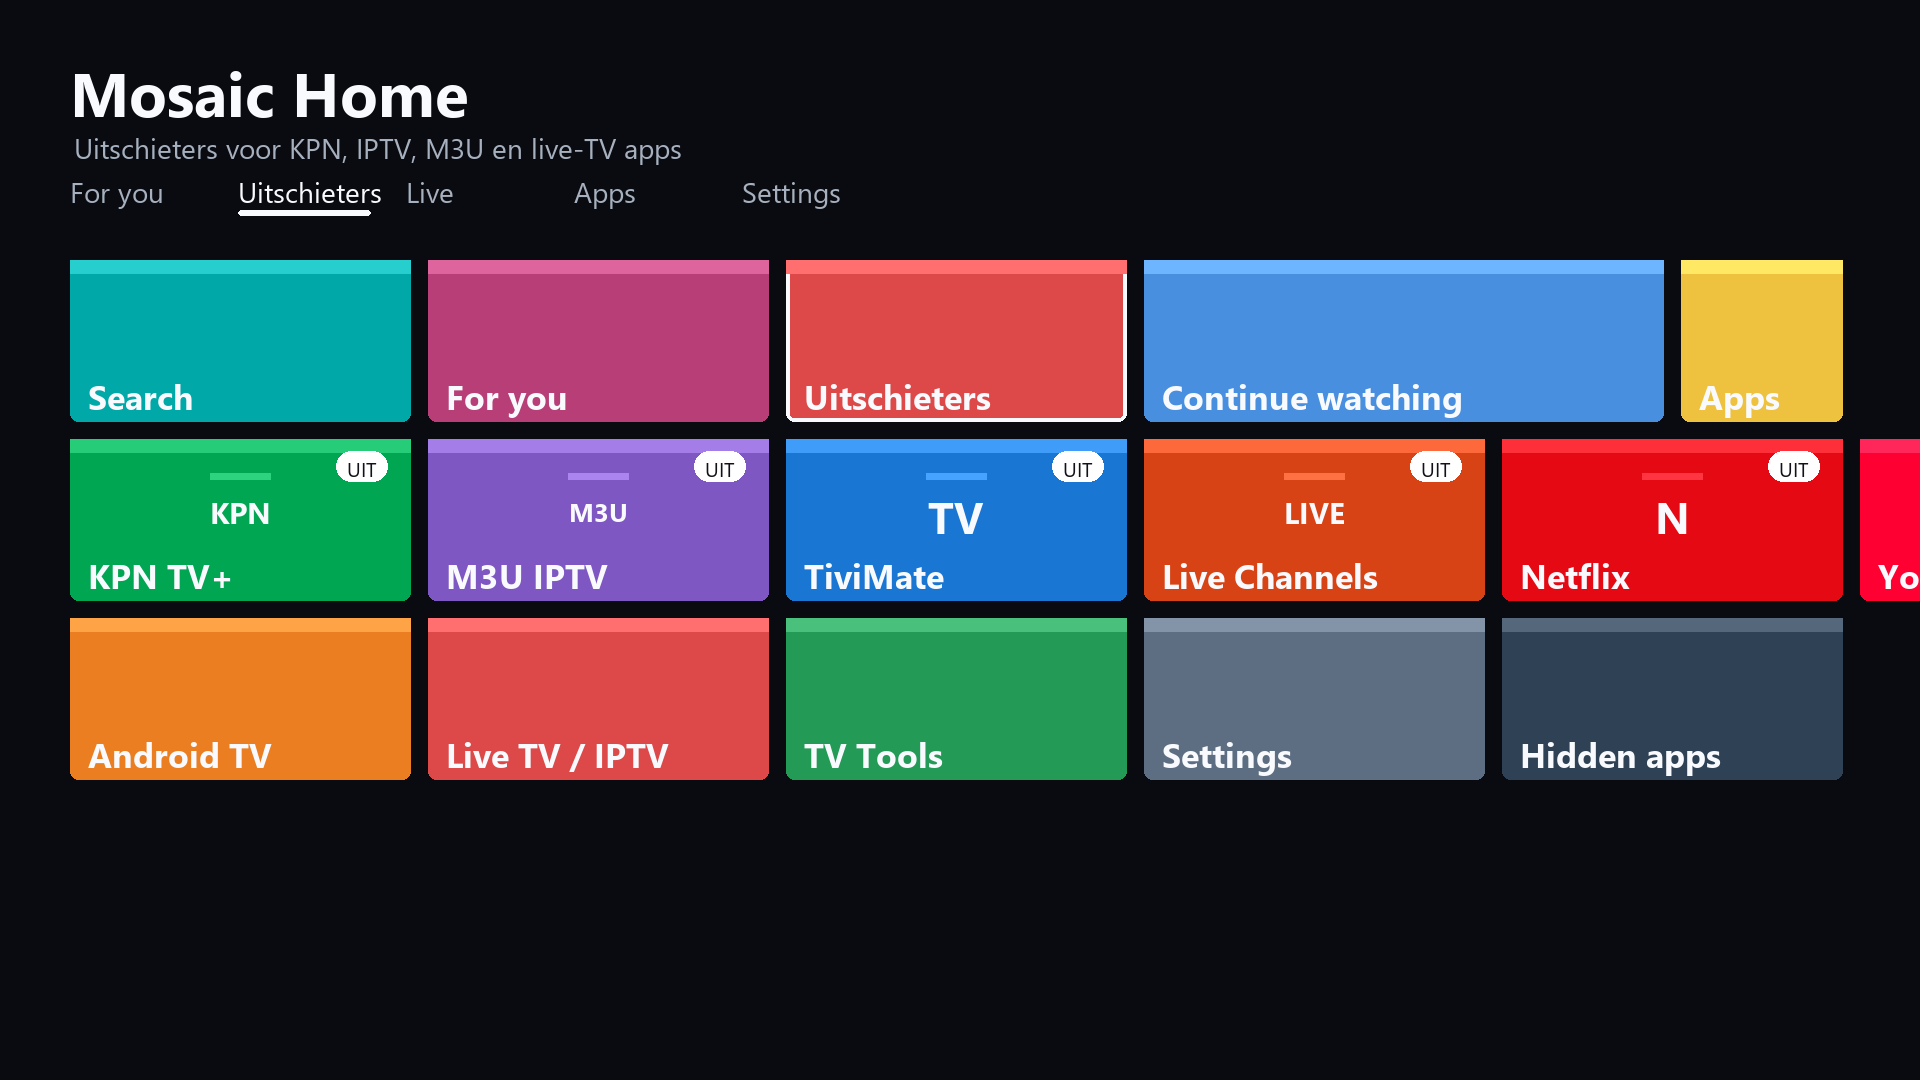
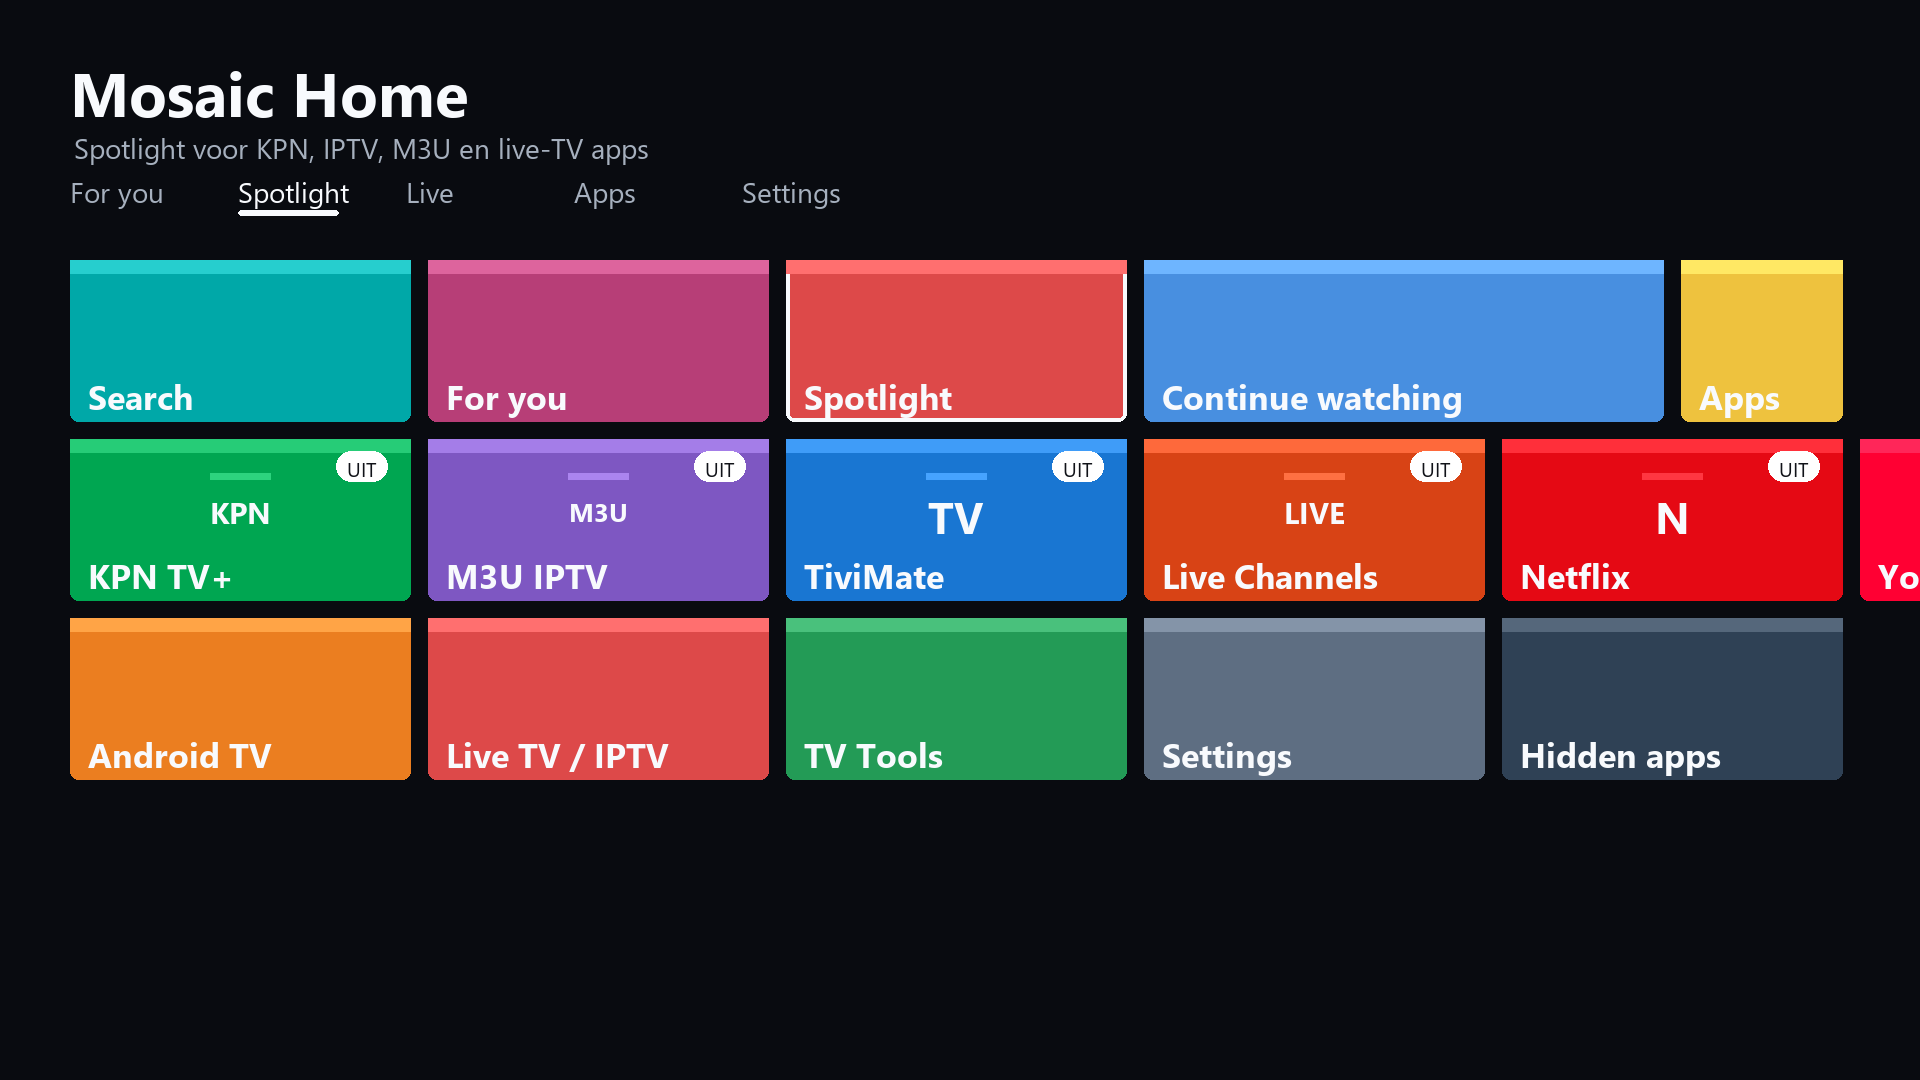
Rename spotlight group

Changed region(s): [[0.0312, 0.1222, 0.3438, 0.2139], [0.4062, 0.3361, 0.5312, 0.3972]]

diff --git a/app/src/main/java/com/codex/mosaichome/MainActivity.java b/app/src/main/java/com/codex/mosaichome/MainActivity.java
@@ -249,7 +249,7 @@ public class MainActivity extends Activity {
             addAction("Profile", "profile", 1, 1, 0, Color.rgb(132, 91, 178));
             addAction("Settings", "group:Settings", 1, 1, 0, Color.rgb(94, 110, 130));
             addAction("Continue watching", "live:continue", 3, 1, 0, Color.rgb(72, 143, 224));
-            addAction("Uitschieters", "group:Uitschieters", 2, 1, 0, Color.rgb(221, 73, 73));
+            addAction("Spotlight", "group:Spotlight", 2, 1, 0, Color.rgb(221, 73, 73));
             addAction("Top picks", "group:Android TV", 2, 1, 0, Color.rgb(235, 126, 32));
             addAction("Live", "group:Live TV / IPTV", 1, 1, 0, Color.rgb(221, 73, 73));
             addAction("Apps", "drawer", 1, 1, 0, Color.rgb(238, 194, 62));
@@ -261,7 +261,7 @@ public class MainActivity extends Activity {
         } else if ("Android TV standard".equals(preset)) {
             addBaseTiles();
             addAction("Continue", "live:continue", 2, 1, 0, Color.rgb(72, 143, 224));
-            addAction("Uitschieters", "group:Uitschieters", 2, 1, 0, Color.rgb(221, 73, 73));
+            addAction("Spotlight", "group:Spotlight", 2, 1, 0, Color.rgb(221, 73, 73));
             addSpotlightApps(0, 6);
             addApps("Android TV", 0, 12);
             addApps("Live TV / IPTV", 0, 8);
@@ -423,7 +423,7 @@ public class MainActivity extends Activity {
     }
 
     private int countVisible(String category) {
-        if ("Uitschieters".equals(category)) return spotlightApps().size();
+        if ("Spotlight".equals(category)) return spotlightApps().size();
         int count = 0;
         for (AppEntry app : apps) if (!app.hidden && category.equals(app.category)) count++;
         return count;
@@ -603,9 +603,9 @@ public class MainActivity extends Activity {
 
     private void showGroup(String category) {
         LinearLayout panel = panel(category);
-        List<AppEntry> groupApps = "Uitschieters".equals(category) ? spotlightApps() : apps;
+        List<AppEntry> groupApps = "Spotlight".equals(category) ? spotlightApps() : apps;
         for (AppEntry app : groupApps) {
-            if (!app.hidden && ("Uitschieters".equals(category) || category.equals(app.category))) addAppRow(panel, app, () -> launch(appTile(app)));
+            if (!app.hidden && ("Spotlight".equals(category) || category.equals(app.category))) addAppRow(panel, app, () -> launch(appTile(app)));
         }
         showPanel(panel);
     }

diff --git a/README.md b/README.md
@@ -18,7 +18,7 @@ Mosaic Home combines a Square Home-style tile launcher with a Google TV / Androi
 
 ![Google TV style home](outputs/screenshots/mosaic-monitor-logo-home-1920x1080.png)
 
-### KPN / IPTV Uitschieters
+### KPN / IPTV Spotlight
 
 ![KPN IPTV spotlight tiles](outputs/screenshots/mosaic-spotlight-kpn-1920x1080.png)
 
@@ -43,7 +43,7 @@ Mosaic Home combines a Square Home-style tile launcher with a Google TV / Androi
 - Native Android launcher with HOME, LAUNCHER, and LEANBACK launcher support.
 - Google TV style default preset with For You, Continue Watching, Live, Apps, and Settings rows.
 - Automatic app grouping for Android TV, Live TV / IPTV, Entertainment, TV Tools, Music, Games, Settings, Communication, Productivity, Media, Browser, Tools, Shopping, System, and Other.
-- Automatic "Uitschieters" spotlight for KPN TV+, IPTV, M3U, live-TV, and similar entertainment apps.
+- Automatic Spotlight row for KPN TV+, IPTV, M3U, live-TV, and similar entertainment apps.
 - Original installed app icons are used as logo buttons on home tiles, app lists, search results, and group pages.
 - Mouse and air-mouse hover animation enlarges app logos and highlights focused rows.
 - Hidden apps menu with default-hidden system/duplicate apps and optional PIN protection.